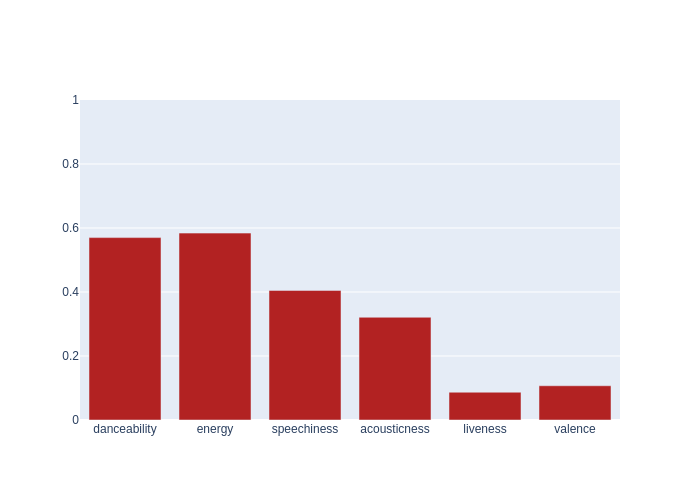
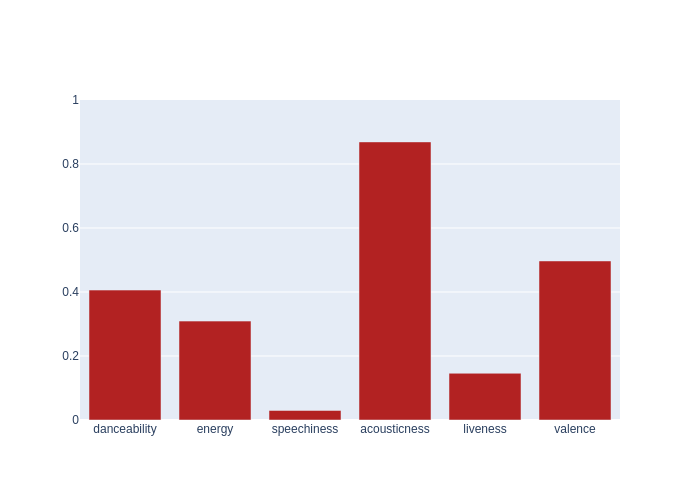
Automated README update

Changed region(s): [[0.12, 0.27, 0.63, 0.84], [0.63, 0.51, 0.87, 0.81]]

diff --git a/README.md b/README.md
@@ -4,7 +4,7 @@ Automated music metrics for fun, updated hourly.
 
 ## Spotify
 
-- currently listening to **Kendrick Lamar - untitled 01 | 08.19.2014.**
+- currently listening to **Frank Sinatra - The Only Couple On The Floor**
 
 - **878** liked songs
 - **140** playlists
